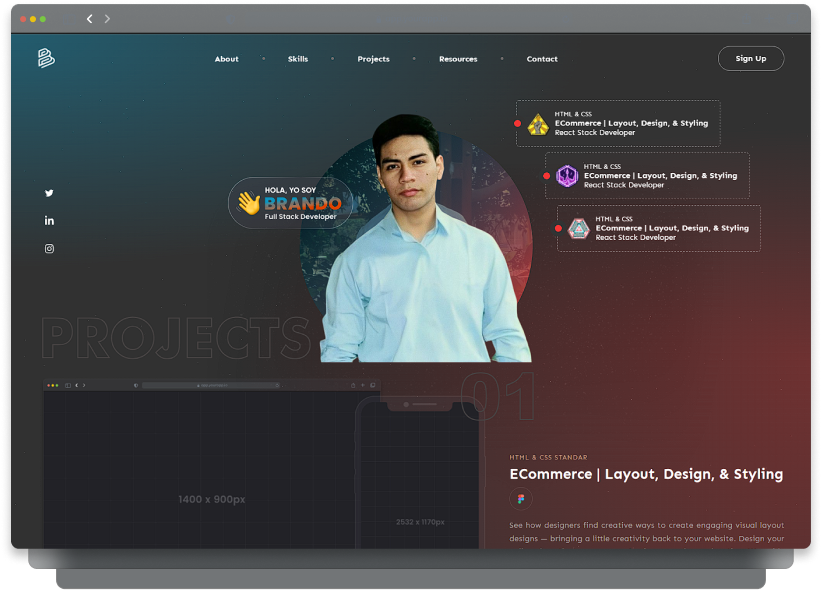
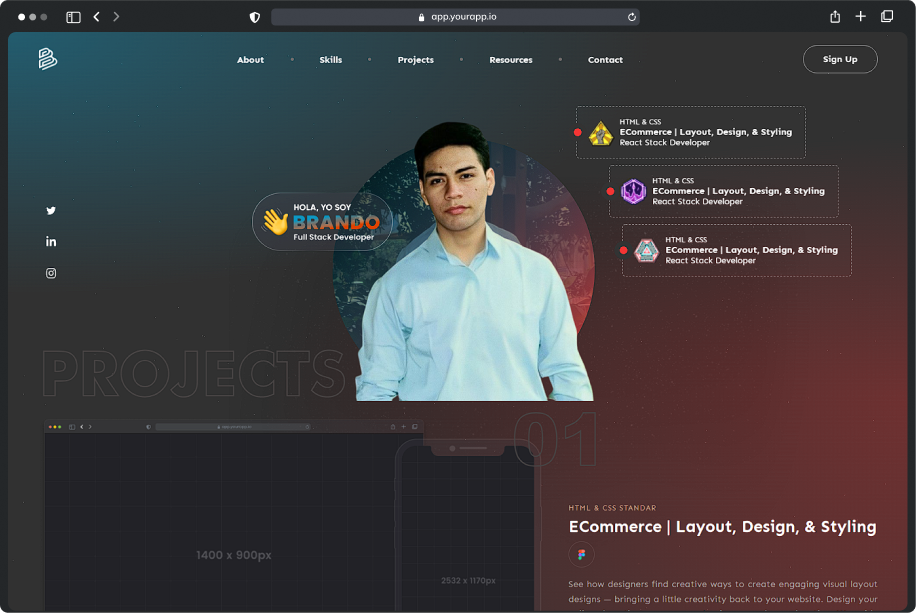
subo

diff --git a/index.html b/index.html
@@ -185,7 +185,7 @@
             <div class="single-portfolio">
                 <div class="img-area">
                     <span class="count nav-hidden">01</span>
-                    <img src="./assets/img-proyects/oficial.png" alt="portfolio-img" class="img-p">
+                    <img src="./assets/img-proyects/bg.png" alt="portfolio-img" class="img-p">
                 </div>
                 <div class="portfolio-content">
                     <span class="portfolio-type text-sm">
